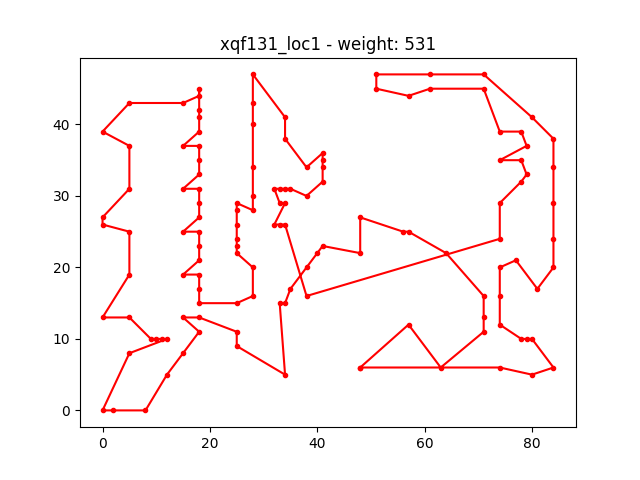
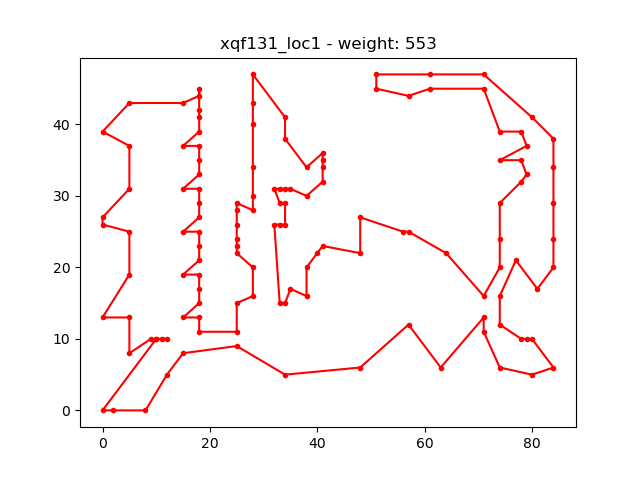
multiprocessing added

diff --git a/Lista2/mst.py b/Lista2/mst.py
@@ -7,9 +7,9 @@ import math
 from matplotlib import pyplot as plt
 from numpy.random import shuffle
 import numpy.random as random
+from multiprocessing import Process
 
 MAX_WEIGHT = 9999999999
-tsp_permutation = []
 
 def get_path_cost(graph, path):
     distance = 0
@@ -40,7 +40,7 @@ def MST(parent: [int], size: int):
 
 	return v
 
-def DFS(edges_list: [[int]], num_nodes: int, starting_vertex: int, visited_nodes: [bool]):
+def DFS(tsp_permutation: [int], edges_list: [[int]], num_nodes: int, starting_vertex: int, visited_nodes: [bool]):
 	tsp_permutation.append(starting_vertex)
 	visited_nodes[starting_vertex] = True
 
@@ -50,7 +50,7 @@ def DFS(edges_list: [[int]], num_nodes: int, starting_vertex: int, visited_nodes
 		if edges_list[starting_vertex][i] == 1:
 			if visited_nodes[i]:
 				continue
-			DFS(edges_list, num_nodes, i, visited_nodes)
+			DFS(tsp_permutation, edges_list, num_nodes, i, visited_nodes)
 
 def weight_TSP(tsp, graph, size):
     weight = 0
@@ -154,39 +154,80 @@ def convert_MST_to_adjacency_matrix(mst: [[int]]):
 
 	return edges_list
 
+def do_the_thing(file_name: str):
+	graph, points = par.parse(f'./data/{file_name}.tsp')
+
+	mst, parent = prim_MST(graph, len(graph))
+
+	edges_list = convert_MST_to_adjacency_matrix(mst)
+	n = math.sqrt(len(points) - 1)
+
+	dfs_steps = 0
+	dfs_mean = 0
+	dfs_min = MAX_WEIGHT
+	min_permutation = []
+	tsp_permutation = []
+
+	print(file_name)
+	for i in range(int(n)):
+		tsp_permutation.clear()
+		rand_point = random.randint(1, len(points) - 1)
+		visited_nodes = [False] * len(mst)
+		DFS(tsp_permutation, edges_list, len(mst), rand_point, visited_nodes)
+		tsp_permutation.append(rand_point)
+		p, counter, w = local_search(tsp_permutation, graph, edges_list)
+		print(w)
+		dfs_mean += w
+		dfs_steps += counter
+		if w < dfs_min:
+			dfs_min = w
+			min_permutation = p
+
+	plot_TSP(min_permutation, points, file_name + "_loc1", int(dfs_min))
+	print("min")
+	print(dfs_min)
+
+	# weight_tsp = weight_TSP(tsp_permutation, result, len(tsp_permutation))
+	# plot_TSP(tsp_permutation, points, file_name, int(weight_tsp))
+
 def main():
 	for file_name in os.listdir('data'):
 		file_name = file_name[:-4]
-		graph, points = par.parse(f'./data/{file_name}.tsp')
+		t = Process(target=do_the_thing, args=(file_name,))
+		t.start()
 
-		mst, parent = prim_MST(graph, len(graph))
+		# graph, points = par.parse(f'./data/{file_name}.tsp')
 
-		edges_list = convert_MST_to_adjacency_matrix(mst)
-		n = math.sqrt(len(points) - 1)
+		# mst, parent = prim_MST(graph, len(graph))
 
-		dfs_steps = 0
-		dfs_mean = 0
-		dfs_min = MAX_WEIGHT
-		min_permutation = []
-		print(file_name)
-		for i in range(100):
-			tsp_permutation.clear()
-			rand_point = random.randint(1, len(points) - 1)
-			visited_nodes = [False] * len(mst)
-			DFS(edges_list, len(mst), rand_point, visited_nodes)
-			tsp_permutation.append(rand_point)
-			p, counter, w = local_search(tsp_permutation, graph, edges_list)
-			print(w)
-			dfs_mean += w
-			dfs_steps += counter
-			if w < dfs_min:
-				dfs_min = w
-				min_permutation = p
-				print(min_permutation)
+		# edges_list = convert_MST_to_adjacency_matrix(mst)
+		# n = math.sqrt(len(points) - 1)
 
-		plot_TSP(min_permutation, points, file_name + "_loc1", int(dfs_min))
-		print("min")
-		print(dfs_min)
+		# dfs_steps = 0
+		# dfs_mean = 0
+		# dfs_min = MAX_WEIGHT
+		# min_permutation = []
+		# tsp_permutation = []
+
+		# print(file_name)
+		# for i in range(int(n)):
+		# 	tsp_permutation.clear()
+		# 	rand_point = random.randint(1, len(points) - 1)
+		# 	visited_nodes = [False] * len(mst)
+		# 	DFS(tsp_permutation, edges_list, len(mst), rand_point, visited_nodes)
+		# 	tsp_permutation.append(rand_point)
+		# 	p, counter, w = local_search(tsp_permutation, graph, edges_list)
+		# 	print(w)
+		# 	dfs_mean += w
+		# 	dfs_steps += counter
+		# 	if w < dfs_min:
+		# 		dfs_min = w
+		# 		min_permutation = p
+		# 		print(min_permutation)
+
+		# plot_TSP(min_permutation, points, file_name + "_loc1", int(dfs_min))
+		# print("min")
+		# print(dfs_min)
 
 		# weight_tsp = weight_TSP(tsp_permutation, result, len(tsp_permutation))
 		# plot_TSP(tsp_permutation, points, file_name, int(weight_tsp))
